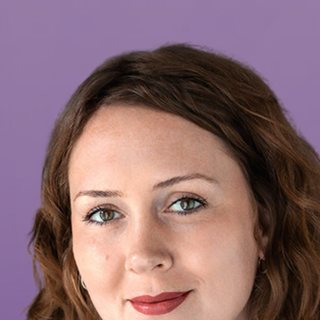
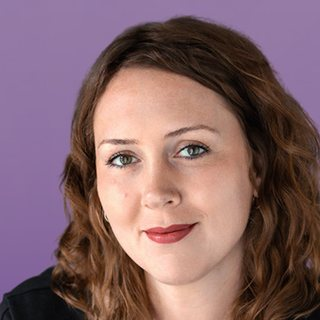
Apply Shannon's program edits

diff --git a/index.html b/index.html
@@ -32,7 +32,7 @@ section>.wrap>h2{color:var(--gold);font-size:1.5625rem;font-weight:600;letter-sp
 .hero .mark{width:84px;height:82px;color:var(--white);margin:0 auto 14px;filter:drop-shadow(0 0 16px rgba(255,255,255,.55))}
 .hero h1{font-size:clamp(2.125rem,10vw,3.25rem);font-weight:700;letter-spacing:.03em;text-transform:uppercase}
 .hero .sub{font-family:var(--head);letter-spacing:.14em;text-transform:uppercase;font-size:0.8125rem;font-weight:500;margin:10px 0 16px}
-.hero .tonight{font-family:var(--head);color:var(--gold);font-weight:600;letter-spacing:.2em;text-transform:uppercase;font-size:0.9375rem;margin:0 0 6px}
+.hero .event{font-family:var(--head);color:var(--gold);font-weight:600;letter-spacing:.2em;text-transform:uppercase;font-size:0.9375rem;margin:0 0 6px}
 .hero .when{font-size:1.125rem;font-weight:700;margin:0}
 .hero .by{color:var(--soft);font-size:0.9375rem;margin:2px 0 22px}
 .hero .by span{display:block;text-wrap:balance}
@@ -48,7 +48,7 @@ nav a{display:block;padding:13px 10px 11px;color:var(--muted);text-decoration:no
 nav a.on{color:var(--gold);border-bottom-color:var(--gold)}
 nav a:focus-visible{outline-offset:-3px}
 
-.note{color:var(--muted);font-size:0.9375rem;margin:-10px 0 10px}
+.tz{font-size:1.0625rem;letter-spacing:.02em;text-transform:none;white-space:nowrap}
 .schedule li{display:grid;grid-template-columns:84px 1fr;gap:12px;padding:11px 0;border-bottom:1px solid var(--line)}
 .schedule li:last-child{border-bottom:0}
 .schedule time{color:var(--gold);font-weight:700;font-variant-numeric:tabular-nums}
@@ -140,7 +140,7 @@ footer p{margin:0}
 @media print{
  *{color:#000!important;background:none!important;filter:none!important}
  nav,summary,.faces,.awardees img{display:none}
- section>.wrap>h2,.label,.award,.schedule time,.nominees .won,.thanks h3,.hero .tonight{color:var(--purple)!important}
+ section>.wrap>h2,.label,.award,.schedule time,.nominees .won,.thanks h3,.hero .event{color:var(--purple)!important}
  #legacy{border-color:var(--purple)}
 }
 @media (prefers-reduced-motion:reduce){html{scroll-behavior:auto}}
@@ -153,7 +153,7 @@ footer p{margin:0}
 <svg class="mark" viewBox="0 0 580 560" role="img" aria-label="Community Sentinel Award compass"><use href="#compass"/></svg>
 <h1>2026 Community Sentinel Awards</h1>
 <p class="sub">for Environmental Stewardship</p>
-<p class="tonight">Tonight’s program</p>
+<p class="event">Event Program</p>
 <p class="when">Thursday, November 12, 2026</p>
 <p class="by"><span>New Orleans + online</span><span>Presented by FracTracker Alliance and Halt the Harm Network</span></p>
 <div class="faces"><a href="#eboni-neal-cochran"><img src="img/eboni-neal-cochran.webp" alt="Eboni Neal Cochran" width="226" height="226"></a><a href="#zulene-mayfield"><img src="img/zulene-mayfield.webp" alt="Zulene Mayfield" width="226" height="226"></a><a href="#loice-malvo"><img src="img/loice-malvo.webp" alt="Loice Malvo" width="226" height="226"></a><a href="#qiyam-ansari"><img src="img/qiyam-ansari.webp" alt="Qiyam Ansari" width="226" height="226"></a><a href="#karen-feridun"><img src="img/karen-feridun.webp" alt="Karen Feridun" width="226" height="226"></a></div>
@@ -171,7 +171,7 @@ footer p{margin:0}
 </ul></nav>
 
 <main>
-<section id="schedule"><div class="wrap"><h2>Schedule</h2><p class="note">All times Central.</p><ol class="schedule"><li><time>5:00 PM</time><div><strong>Happy hour</strong><span>Cash bar</span></div></li><li><time>5:30 PM</time><div><strong>Music by Bruce “Sunpie” Barnes</strong></div></li><li><time>6:00 PM</time><div><strong>Plated dinner</strong></div></li><li><time>6:45 PM</time><div><strong>Online doors open on Zoom</strong></div></li><li><time>6:55 PM</time><div><strong>Opening song</strong></div></li><li><time>7:00 PM</time><div><strong>Awards ceremony</strong><span>Streamed live on Zoom (8 PM Eastern)</span></div></li><li><time>9:00 PM</time><div><strong>Celebration reception</strong><span>Cash bar</span></div></li></ol></div></section>
+<section id="schedule"><div class="wrap"><h2>Schedule <span class="tz">(Central Time)</span></h2><ol class="schedule"><li><time>5:00 PM</time><div><strong>Happy hour</strong></div></li><li><time>5:30 PM</time><div><strong>Music by Bruce “Sunpie” Barnes</strong></div></li><li><time>6:00 PM</time><div><strong>Plated dinner</strong></div></li><li><time>6:45 PM</time><div><strong>Online doors open on Zoom</strong></div></li><li><time>6:55 PM</time><div><strong>Opening song</strong></div></li><li><time>7:00 PM</time><div><strong>Awards ceremony</strong><span>Streamed live on Zoom (8 PM Eastern)</span></div></li><li><time>9:00 PM</time><div><strong>Celebration reception</strong></div></li></ol></div></section>
 
 <section id="menu"><div class="wrap"><h2>Menu</h2><div class="menu"><div class="course"><h3>First course</h3><p>Baby field greens salad</p></div><div class="course"><h3>Main course</h3><p>Pan-seared chicken breast with roasted new potatoes and Creole cream</p><p class="or">or</p><p>Butternut squash ravioli</p></div><div class="course"><h3>Final course</h3><p>Chocolate flourless cake</p></div></div></div></section>
 
@@ -206,7 +206,7 @@ footer p{margin:0}
 <section id="legacy"><div class="wrap"><h2>Legacy of Heroes</h2>
 <p>The Legacy of Heroes honors environmental advocates who have recently passed on. Their photos and descriptions will be displayed throughout the room. Please take time to view them before the awards ceremony begins at 7&nbsp;PM.</p>
 <p>We pay our respects to:</p>
-<ul class="heroes"><li><strong>Jim and Terry Fitzgerald</strong><span>Bayfield, Colorado, 1939–2025 and 1935–2025</span><details><summary>Read about Jim and Terry</summary><p>Jim and Terry Fitzgerald were giants in the oil and gas accountability movement that took root in La Plata County, Colorado, in the late 1980s, when the county became the worldwide guinea pig for the industry’s massive experiment in coalbed methane development. They fought for landowners to have a say in what happened on their own land, helped found the Oil &amp; Gas Accountability Project (now Earthworks) in 1999, and organized People’s Oil &amp; Gas Summits in communities facing drilling booms. Jim and Terry were the very essence of participatory democracy—not the abstract kind, but the real, gritty, show-up, do-the-work kind. They didn’t wait for permission or for someone else to lead. They showed us that change comes from ordinary people who care deeply, act boldly, and refuse to look away.</p></details></li><li><strong>Mary Ann Atencio</strong><span>Torreon (Na&#x27;neelzhiin), Navajo Nation, 1954–2025</span><details><summary>Read about Mary Ann</summary><p>Mary Ann Atencio, a respected clan matriarch of the Torreon community on the Navajo Nation, was a plaintiff in the landmark Atencio et al. v. State of New Mexico state constitutional lawsuit. She was unhesitant to take action to protect the land, air, water, and sacred places for future generations of her Navajo People.</p></details></li><li><strong>Julie Weatherington-Rice</strong><span>Columbus, Ohio, 1948–2025</span><details><summary>Read about Julie</summary><p>Dr. Julie Weatherington-Rice was a fierce defender of the environment and a dedicated educator who believed in the power of knowledge to create change. Through her scientific research, teaching, and tireless advocacy for clean water, she left a lasting legacy of protecting both the natural world and the people who depend upon it.</p></details></li><li><strong>Tami Mewis</strong><span>Purmela, Texas, 1960–2025</span><details><summary>Read about Tami</summary><p>Tami Mewis was a painter in Austin who built a small trailer park community on land in the Texas countryside. When the DeLa Express Pipeline was routed through her property, she never missed a Hold the Line meeting, fighting to protect the community she had made.</p></details></li><li><strong>Kate Bartholomew</strong><span>Montour Falls, New York, 1963–2026</span><details><summary>Read about Kate</summary><p>Kate Bartholomew was a fearless warrior for justice, especially when it came to protecting the natural world. For two decades she was a volunteer leader with the Sierra Club, and for the past eight years chair of its Atlantic Chapter. She played a major leadership role in achieving New York’s fracking ban, and as a science teacher at Watkins Glen High School and the New Roots Charter School she left behind a large “pack” of students whose lives she touched. As she put it, “And now we face the most monumental, existential crisis humanity has ever seen—most especially because of our part in creating it—so the moral demand to engage in this struggle becomes even more imperative—for the planet, for the future, for all life.”</p></details></li><li><strong>Delma “Bubee” Bennett</strong><span>Mossville, Louisiana, 1944–2026</span><details><summary>Read about Delma</summary><p>Delma Leroy “Bubee” Bennett was a Mossville resident and activist and treasurer of Mossville Environmental Action Now. With Christine, his wife of 53 years, he spoke out about the pollution harming their neighbors. “It’s just a handful of people like my wife and myself who continue to try to make things better for themselves,” he said. An Army drill sergeant and Head Elder at Sharon Chapel Seventh-day Adventist Church, he is remembered for his faith, his laughter, and his gift for bringing people together.</p></details></li><li><strong>Jim Bruggers</strong><span>Louisville, Kentucky, 1958–2026</span><details><summary>Read about Jim</summary><p>Jim Bruggers’ decades of dogged reporting shined a light on polluting corporations, inadequate regulations and the people who fought against them for environmental justice. At the Louisville Courier Journal he became known as a watchdog of Louisville’s air, water and land, and at Inside Climate News he covered coal, petrochemicals and plastics across the Southeast. When he wanted to cover something in depth, he would rent a car and start knocking on doors.</p></details></li><li><strong>Marcia Carnahan</strong><span>Slippery Rock, Pennsylvania, 1945–2025</span><details><summary>Read about Marcia</summary><p>When a cold-mix asphalt plant was proposed directly across the street from her home, Marcia Carnahan knew she had to take action. She co-founded Save Slippery Rock Creek, canvassed door to door, and set up tables at local events, uniting her community to protect the creek. She truly embodied the spirit of local activism and care for the environment.</p></details></li><li><strong>Melissa Bright-Bennett</strong><span>Convent, Louisiana, 1978–2026</span></li></ul></div></section>
+<ul class="heroes"><li><strong>Jim and Terry Fitzgerald</strong><span>Bayfield, Colorado, 1939–2025 and 1935–2025</span><details><summary>Read about Jim and Terry</summary><p>Jim and Terry Fitzgerald were giants in the oil and gas accountability movement that took root in La Plata County, Colorado, in the late 1980s, when the county became the worldwide guinea pig for the industry’s massive experiment in coalbed methane development. They fought for landowners to have a say in what happened on their own land, helped found the Oil &amp; Gas Accountability Project (now Earthworks) in 1999, and organized People’s Oil &amp; Gas Summits in communities facing drilling booms. Jim and Terry were the very essence of participatory democracy—not the abstract kind, but the real, gritty, show-up, do-the-work kind. They didn’t wait for permission or for someone else to lead. They showed us that change comes from ordinary people who care deeply, act boldly, and refuse to look away.</p></details></li><li><strong>Mary Ann Atencio</strong><span>Torreon (Na&#x27;neelzhiin), Navajo Nation, 1954–2025</span><details><summary>Read about Mary Ann</summary><p>Mary Ann Atencio, a respected clan matriarch of the Torreon community on the Navajo Nation, was a plaintiff in the landmark Atencio et al. v. State of New Mexico state constitutional lawsuit. She was unhesitant to take action to protect the land, air, water, and sacred places for future generations of her Navajo People.</p></details></li><li><strong>Julie Weatherington-Rice</strong><span>Columbus, Ohio, 1948–2025</span><details><summary>Read about Julie</summary><p>Dr. Julie Weatherington-Rice was a fierce defender of the environment and a dedicated educator who believed in the power of knowledge to create change. Through her scientific research, teaching, and tireless advocacy for clean water, she left a lasting legacy of protecting both the natural world and the people who depend upon it.</p></details></li><li><strong>Tami Mewis</strong><span>Purmela, Texas, 1960–2025</span><details><summary>Read about Tami</summary><p>Tami Mewis was a painter in Austin who built a small trailer park community on land in the Texas countryside. When the DeLa Express Pipeline was routed through her property, she never missed a Hold the Line meeting, fighting to protect the community she had made.</p></details></li><li><strong>Kate Bartholomew</strong><span>Montour Falls, New York, 1963–2026</span><details><summary>Read about Kate</summary><p>Kate Bartholomew was a fearless warrior for justice, especially when it came to protecting the natural world. For two decades she was a volunteer leader with the Sierra Club, and for the past eight years chair of its Atlantic Chapter. She played a major leadership role in achieving New York’s fracking ban, and as a science teacher at Watkins Glen High School and the New Roots Charter School she left behind a large “pack” of students whose lives she touched. As she put it, “And now we face the most monumental, existential crisis humanity has ever seen—most especially because of our part in creating it—so the moral demand to engage in this struggle becomes even more imperative—for the planet, for the future, for all life.”</p></details></li><li><strong>Delma “Bubee” Bennett</strong><span>Mossville, Louisiana, 1944–2026</span><details><summary>Read about Delma</summary><p>Delma Leroy “Bubee” Bennett was a Mossville resident and activist and treasurer of Mossville Environmental Action Now. With his wife of 53 years, he spoke out about the pollution harming their neighbors. “It’s just a handful of people like my wife and myself who continue to try to make things better for themselves,” he said. An Army drill sergeant and Head Elder at Sharon Chapel Seventh-day Adventist Church, he is remembered for his faith, his laughter, and his gift for bringing people together.</p></details></li><li><strong>Jim Bruggers</strong><span>Louisville, Kentucky, 1958–2026</span><details><summary>Read about Jim</summary><p>Jim Bruggers’ decades of dogged reporting shined a light on polluting corporations, inadequate regulations and the people who fought against them for environmental justice. At the Louisville Courier Journal he became known as a watchdog of Louisville’s air, water and land, and at Inside Climate News he covered coal, petrochemicals and plastics across the Southeast. When he wanted to cover something in depth, he would rent a car and start knocking on doors.</p></details></li><li><strong>Marcia Carnahan</strong><span>Slippery Rock, Pennsylvania, 1945–2025</span><details><summary>Read about Marcia</summary><p>When a cold-mix asphalt plant was proposed directly across the street from her home, Marcia Carnahan knew she had to take action. She co-founded Save Slippery Rock Creek, canvassed door to door, and set up tables at local events, uniting her community to protect the creek. She truly embodied the spirit of local activism and care for the environment.</p></details></li><li><strong>Melissa Bright-Bennett</strong><span>Convent, Louisiana, 1978–2026</span></li></ul></div></section>
 
 <section id="thanks" class="thanks"><div class="wrap"><h2>Thank you</h2>
 <h3 class="first">Judges</h3><ul class="judges"><li><strong>Andrea Pierce</strong><span>Deputy Director of Programming, Michigan Environmental Justice Coalition. 2024 Community Sentinel Award winner.</span></li><li><strong>Natasha DeJarnett, PhD, MPH, BCES</strong><span>Assistant Professor, University of Louisville, Department of Medicine</span></li><li><strong>Jennifer Hadayia, MPA</strong><span>Executive Director, Air Alliance Houston</span></li><li><strong>Mike Schade</strong><span>Senior Director of Programs and Strategy at Toxic-Free Future</span></li></ul>
